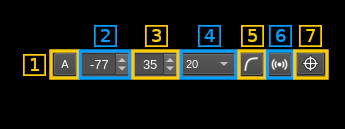
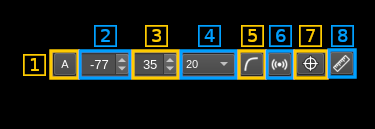
Spectrum calibration: added documentation in main window readme

Changed region(s): [[0.058, 0.186, 0.9565, 0.6202], [0.2319, 0.186, 0.3478, 0.3721]]

diff --git a/sdrgui/readme.md b/sdrgui/readme.md
@@ -369,7 +369,7 @@ Most devices will also present an interface to control automatic DC removal and 
 
 ![Spectrum GUI](../doc/img/MainWindow_spectrum_gui.png)
 
-These are the controls of the main spectrum display in (7). The same controls are found in the plugins that feature a spectrum display:
+These are the controls of the main spectrum display in (7). The same controls are found in the plugins that feature a spectrum display. For example:
   - Channel Analyzer
   - Broadcast FM demodulator
   - ChirpChat (LoRa) demodulator
@@ -528,6 +528,12 @@ The server only sends data. Control including FFT details is done via the REST A
 <h4>3B.7. Spectrum markers dialog</h4>
 
 Opens the [spectrum markers dialog](spectrummarkers.md)
+
+<h4>3B.8. Spectrum calibration</h4>
+
+Use the toggle button to switch between relative and calibrated power readings.
+
+Right click to open the [calibration management dialog](spectrumcalibration.md)
 
 <h3>3C.  Spectrum display control line 3</h3>
 
